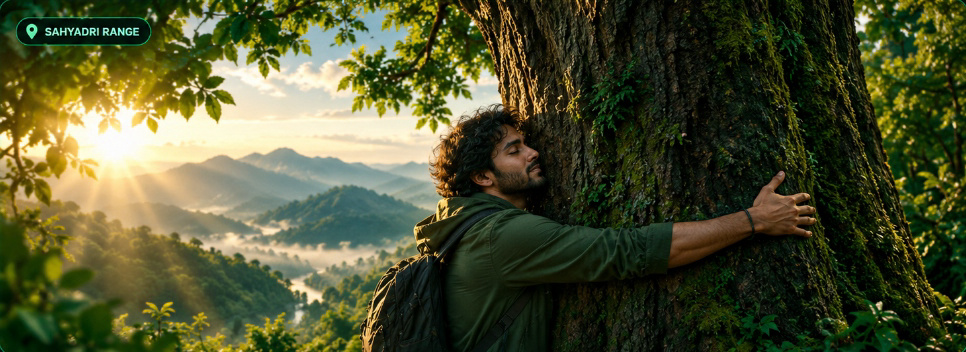
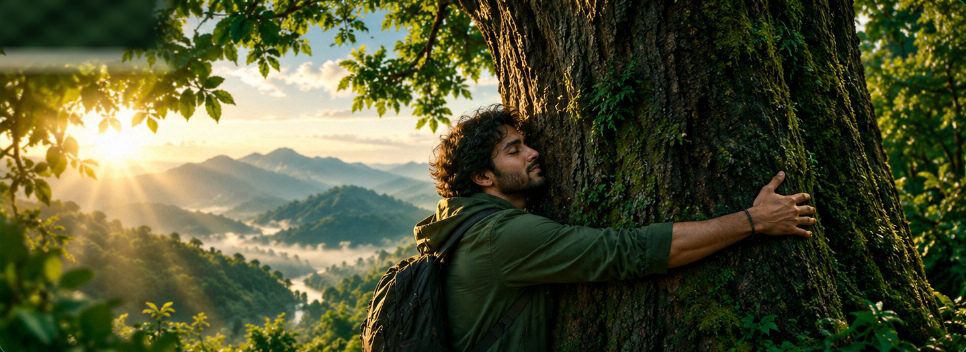
Fix text cutoff on Sahyadri Range badge with responsive HTML overlay

Changed region(s): [[0.0, 0.0, 0.1863, 0.2188]]

diff --git a/src/components/IssueSection.js b/src/components/IssueSection.js
@@ -31,6 +31,14 @@ export function renderIssueSection(container) {
           <!-- Wide Cinematic Image of a Person Hugging a Majestic Mature Tree in Lush Sahyadri Forest -->
           <div class="relative z-10 w-full overflow-hidden rounded-xl sm:rounded-2xl border border-emerald-500/25 shadow-xl group">
             <div class="relative aspect-[16/10] sm:aspect-[21/9] w-full overflow-hidden bg-black/60">
+              <!-- Location Badge (Safe from corner crop & responsive) -->
+              <div class="absolute top-3 left-3 sm:top-4 sm:left-4 z-10 inline-flex items-center gap-1.5 px-2.5 py-1 sm:px-3 sm:py-1 rounded-full bg-[#030905]/85 backdrop-blur-md text-[10px] sm:text-xs font-bold text-emerald-300 border border-emerald-500/40 shadow-lg pointer-events-none tracking-wider">
+                <svg class="w-3.5 h-3.5 text-emerald-400 shrink-0" viewBox="0 0 24 24" fill="none" stroke="currentColor" stroke-width="2.2" stroke-linecap="round" stroke-linejoin="round">
+                  <path d="M20 10c0 6-8 12-8 12s-8-6-8-12a8 8 0 0 1 16 0Z"/>
+                  <circle cx="12" cy="10" r="3"/>
+                </svg>
+                <span>SAHYADRI RANGE</span>
+              </div>
               <img 
                 src="/images/sahyadri-tree-hug.jpg" 
                 alt="A concerned citizen hugging an ancient mature tree in the lush misty canopy of the Sahyadri Western Ghats" 

diff --git a/tests/componentTest.js b/tests/componentTest.js
@@ -110,6 +110,7 @@ renderIssueSection(issueEl);
 assert.ok(issueEl.innerHTML.includes('32,490 TREES'), 'Issue must contain 32,490 TREES headline');
 assert.ok(issueEl.innerHTML.includes('A reported 32,490 trees were authorised for removal for the Saidongar-I Karjat pumped-storage project.'), 'Must contain factual description');
 assert.ok(issueEl.innerHTML.includes('sahyadri-tree-hug.jpg'), 'Must contain person hugging tree image');
+assert.ok(issueEl.innerHTML.includes('SAHYADRI RANGE'), 'Must contain responsive SAHYADRI RANGE badge');
 assert.ok(issueEl.innerHTML.includes('50–100 YEARS TO GROW.'), 'Must contain emotional headline part 1');
 assert.ok(issueEl.innerHTML.includes('JUST MINUTES TO CUT?'), 'Must contain emotional headline part 2');
 assert.ok(issueEl.innerHTML.includes('A tree is more than timber. It can be a home for wildlife, part of a living ecosystem, and a legacy for generations to come.'), 'Must contain supporting message');
